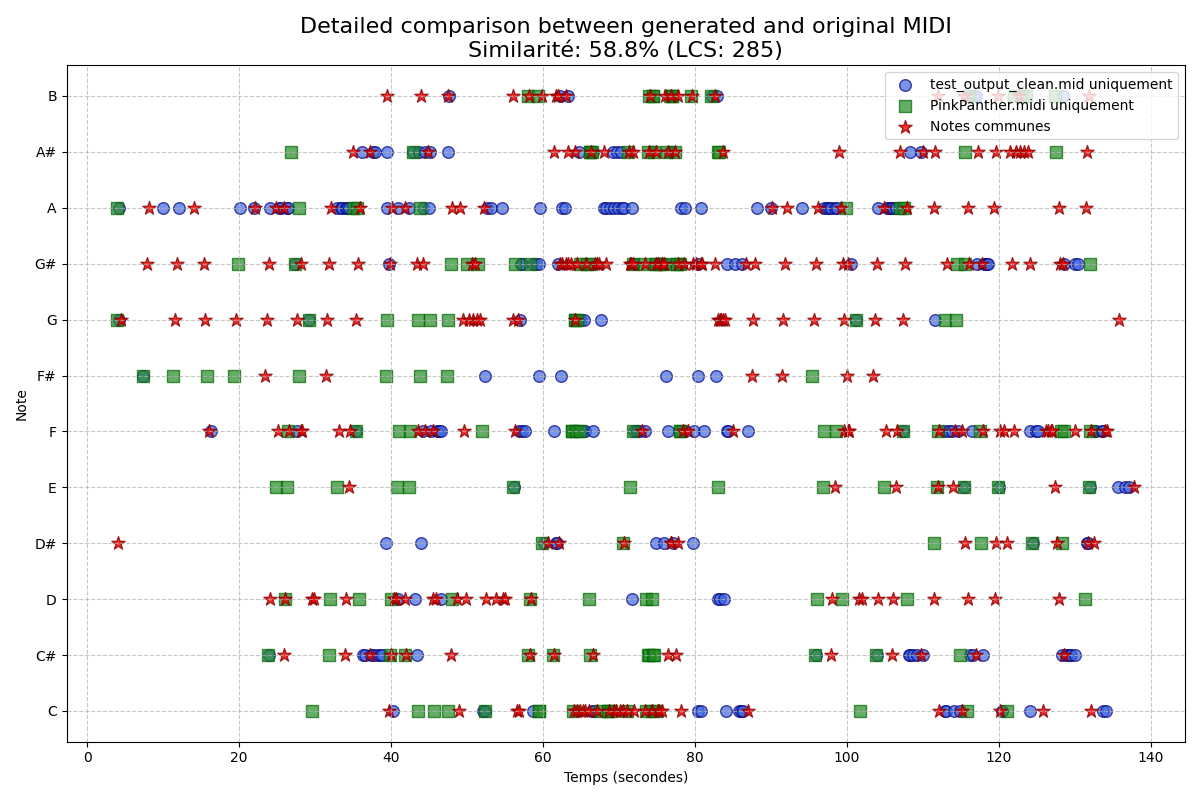
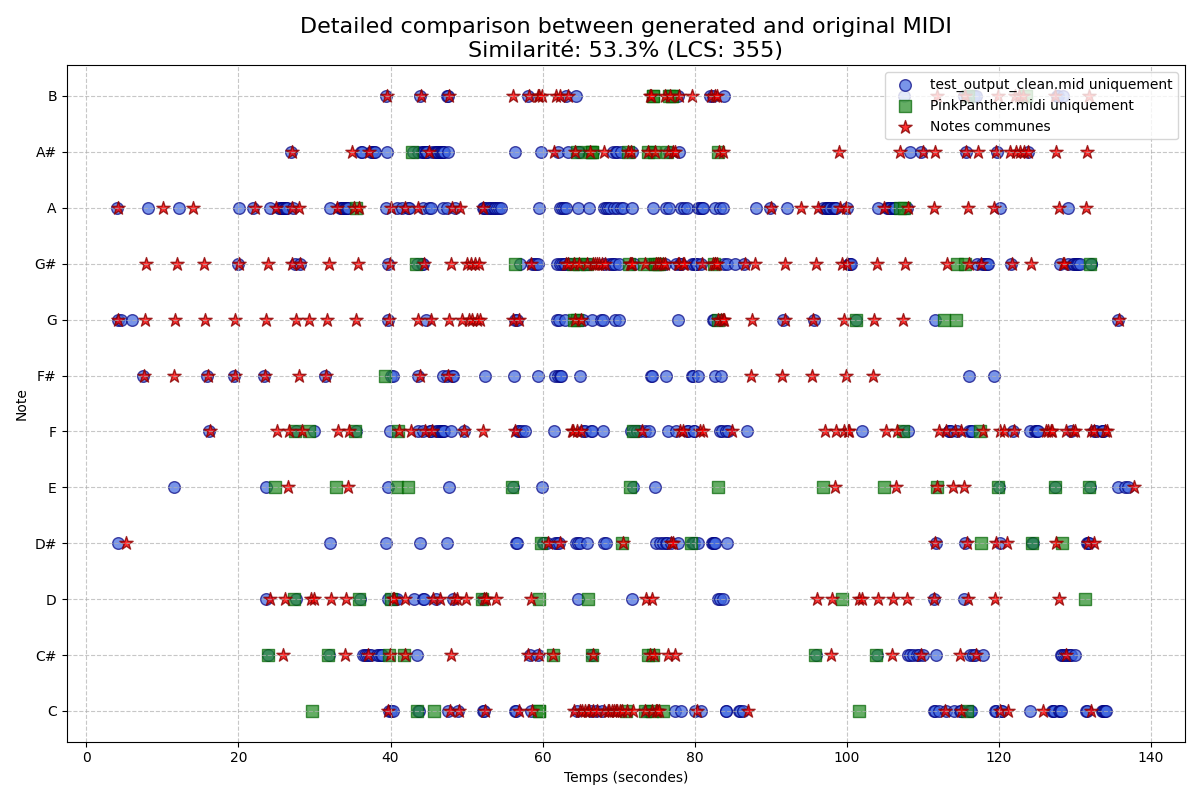
meh

diff --git a/src/FFT.py b/src/FFT.py
@@ -267,8 +267,8 @@ def freq_anal(values):
         piano_comparison_mean = [0, np.float64(1.0), np.float64(0.6327285648288827), np.float64(0.2647386789612746), np.float64(0.17201458476639642), np.float64(0.13515905554207736), np.float64(0.10292263867561052), np.float64(0.11210653450368742), np.float64(0.08744076515106432)]
         trumpet_comparison_mean = [0, np.float64(1.0), np.float64(0.992499293761613), np.float64(0.6459633061734135), np.float64(0.31838611332848116), np.float64(0.21360601223562686), np.float64(0.11931605750938493), np.float64(0.08316339062309164), np.float64(0.0701687057473084)]
 
-        piano_comparison_median = [[], np.float64(1.0), np.float64(0.4814294293182334), np.float64(0.10392308167988006), np.float64(0.10060534116654808), np.float64(0.08918406948375554), np.float64(0.044676543080990186), np.float64(0.07514166966407616), np.float64(0.034217232045258665)]
-        trumpet_comparison_median = [[], np.float64(1.0), np.float64(1.0562095347338256), np.float64(0.7313740805027068), np.float64(0.2588301447131931), np.float64(0.15505121616392709), np.float64(0.07352018582192671), np.float64(0.0465575078627254), np.float64(0.030314936431951517)]
+        piano_comparison_median = [[], np.float64(1.0), np.float64(0.576120674736659), np.float64(0.10074317238955084), np.float64(0.11219071349636119), np.float64(0.0853362696597552), np.float64(0.03575826258866487), np.float64(0.07043107487453776), np.float64(0.03263324801872214)]
+        trumpet_comparison_median = [[], np.float64(1.0), np.float64(1.0726842056009844), np.float64(0.7497942625153731), np.float64(0.25999416080290527), np.float64(0.1577889028211673), np.float64(0.07449396143438389), np.float64(0.04515088268557719), np.float64(0.02829986111368342)]
 
         piano_comparison_ecossaise = [[], np.float64(1.0), np.float64(0.9060887757894084), np.float64(0.3078628526315612), np.float64(0.42474040144621245), np.float64(0.24427959645602856), np.float64(0.19084171644421477), np.float64(0.19751781954808278), np.float64(0.1288031149753406)]
         trumpet_comparison_ecossaise = [[], np.float64(1.0), np.float64(0.7812244987387269), np.float64(0.5776206600479266), np.float64(0.33850899652676075), np.float64(0.25509798335514233), np.float64(0.23989290168227487), np.float64(0.15063101735291518), np.float64(0.08265174010236381)]
@@ -299,8 +299,8 @@ def freq_anal(values):
 
                     #print("pian",piano_comparison[freq[0]]-(freq[1].amplitude/base_freq))
                     #print("trum",trumpet_comparison[freq[0]]-(freq[1].amplitude/base_freq))
-            print("piano",piano_indice)
-            print("trumpet", trumpet_indice)
+            #print("piano",piano_indice)
+            #print("trumpet", trumpet_indice)
             #print("trumpet",trumpet_indice)
 
             if len(bunch) >1:
@@ -483,9 +483,9 @@ totalvalues = filter(fftvalues,"gaussian")
 piano_values,trumpet_values,allvalues,rawvalues = freq_anal(totalvalues)
 get_median_harmonics(rawvalues)
 
-piano_values = hide_noise(piano_values,2)
-trumpet_values = hide_noise(trumpet_values,2)
-totalvalues = hide_noise(totalvalues,2)
+piano_values = hide_noise(piano_values,1)
+trumpet_values = hide_noise(trumpet_values,1)
+totalvalues = hide_noise(totalvalues,1)
 
 test_write_midi_file(piano_values,trumpet_values)
 

diff --git a/src/MidiComparison.py b/src/MidiComparison.py
@@ -272,7 +272,7 @@ def compare_midis_instruments(midi1, midi2):
 
 if __name__ == "__main__":
     midi_a = os.path.join("media", "midi", "test_output_clean.mid")
-    midi_b = os.path.join("media", "midi", "Gamme.mid")
+    midi_b = os.path.join("media", "midi", "PinkPanther.midi")
 
     similarity, lcs_len, len1, len2 = compare_midis(midi_a, midi_b)
     print("--- Without Instruments ---")
